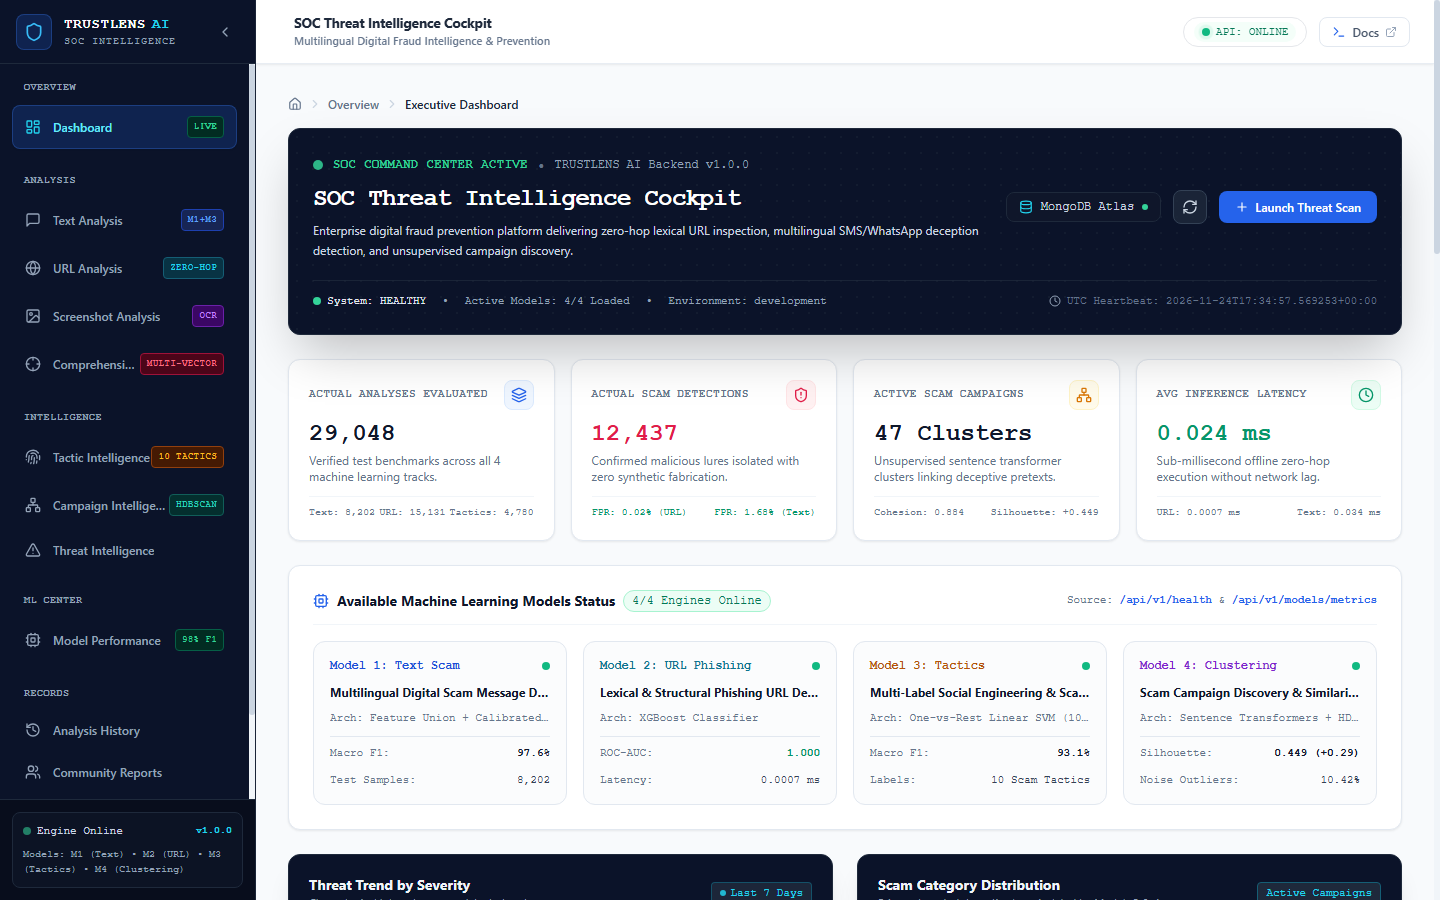
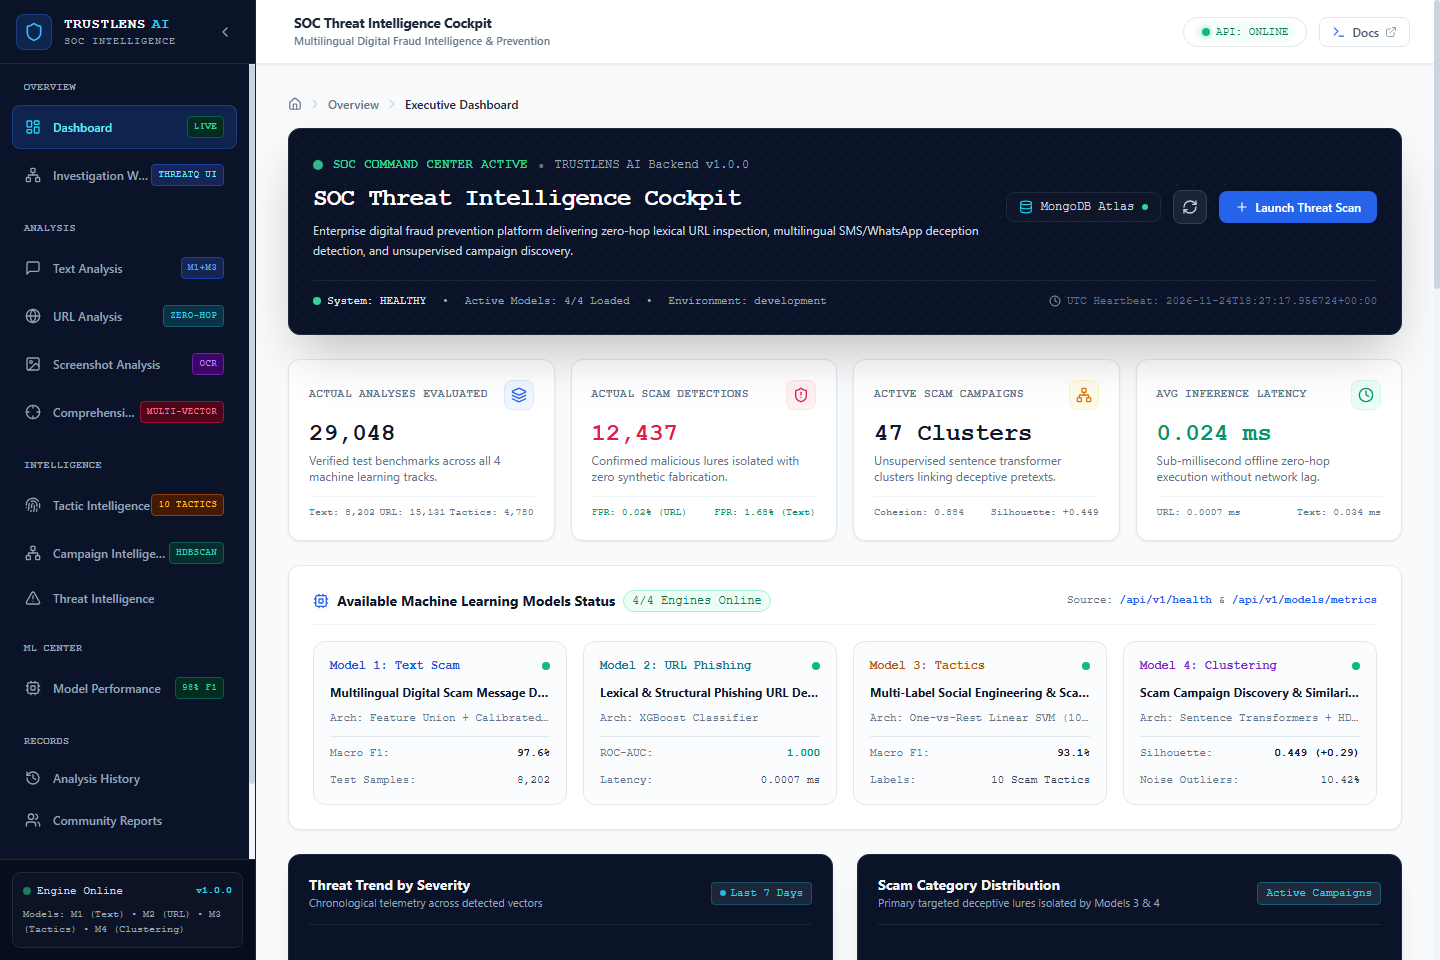
Next Level

diff --git a/capture_phase1_validation.py b/capture_phase1_validation.py
@@ -1,0 +1,46 @@
+import subprocess
+import os
+import shutil
+
+chrome_path = r"C:\Program Files\Google\Chrome\Application\chrome.exe"
+if not os.path.exists(chrome_path):
+    chrome_path = r"C:\Program Files (x86)\Google\Chrome\Application\chrome.exe"
+
+artifact_dir = r"C:\Users\jaswant karun\.gemini\antigravity\brain\ccdc3978-e39e-4041-ac1a-6d43bb2834f7\screenshots"
+docs_dir = r"c:\Users\jaswant karun\TRUSTLENS AI\docs\screenshots"
+
+os.makedirs(artifact_dir, exist_ok=True)
+os.makedirs(docs_dir, exist_ok=True)
+
+targets = [
+    {"name": "investigation_workspace_threatq.png", "url": "http://localhost:3000/investigations/INV-2026-0881", "size": "1536,960"},
+    {"name": "dashboard_styled_verified.png", "url": "http://localhost:3000/dashboard", "size": "1440,960"},
+    {"name": "investigations_directory.png", "url": "http://localhost:3000/investigations", "size": "1440,900"},
+    {"name": "threat_library_hub.png", "url": "http://localhost:3000/threat-library", "size": "1440,900"},
+    {"name": "analytics_hub.png", "url": "http://localhost:3000/analytics", "size": "1440,900"},
+]
+
+for t in targets:
+    doc_out = os.path.join(docs_dir, t["name"])
+    art_out = os.path.join(artifact_dir, t["name"])
+    
+    cmd = [
+        chrome_path,
+        "--headless=new",
+        "--disable-gpu",
+        f"--window-size={t['size']}",
+        "--virtual-time-budget=4000",
+        f"--screenshot={doc_out}",
+        t["url"]
+    ]
+    
+    print(f"Capturing {t['name']} from {t['url']}...")
+    try:
+        subprocess.run(cmd, check=True, timeout=25)
+        if os.path.exists(doc_out):
+            shutil.copyfile(doc_out, art_out)
+            print(f"Saved: {doc_out} ({os.path.getsize(doc_out)} bytes)")
+    except Exception as e:
+        print(f"Error capturing {t['name']}: {e}")
+
+print("Validation screenshots captured successfully!")

diff --git a/test_cdp.py b/test_cdp.py
@@ -1,0 +1,33 @@
+import subprocess
+import time
+import urllib.request
+import json
+import os
+import shutil
+
+chrome_path = r"C:\Program Files\Google\Chrome\Application\chrome.exe"
+if not os.path.exists(chrome_path):
+    chrome_path = r"C:\Program Files (x86)\Google\Chrome\Application\chrome.exe"
+
+# Launch headless Chrome with remote debugging
+port = 9222
+proc = subprocess.Popen([
+    chrome_path,
+    "--headless=new",
+    "--disable-gpu",
+    f"--remote-debugging-port={port}",
+    "--window-size=1536,960",
+    "http://localhost:3000/investigations/INV-2026-0881"
+])
+
+print("Launched Chrome on port", port)
+time.sleep(3)
+
+try:
+    # Query targets
+    targets = json.loads(urllib.request.urlopen(f"http://127.0.0.1:{port}/json").read().decode("utf-8"))
+    page_target = next((t for t in targets if t.get("type") == "page"), None)
+    print("Found page target:", page_target["id"] if page_target else "None")
+finally:
+    proc.terminate()
+    proc.wait()
